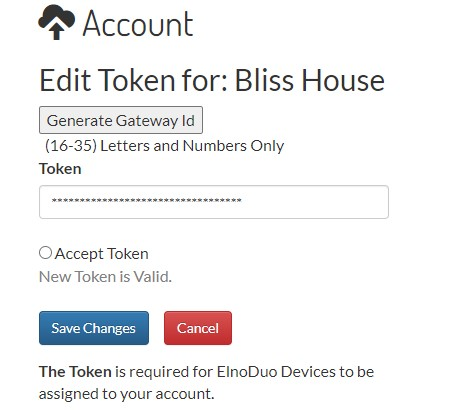
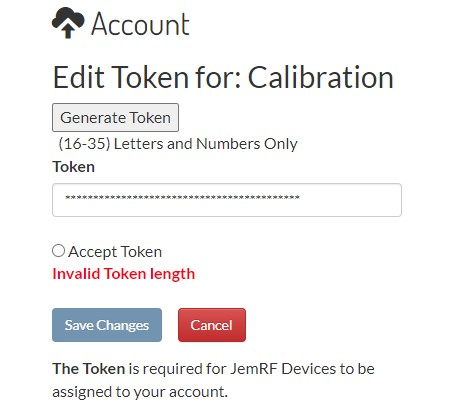
Add jemrf login and token creat procedure, update gateway docs and menus

diff --git a/pages/wifidocs/wifi-rf-gw-setup.md b/pages/wifidocs/wifi-rf-gw-setup.md
@@ -1,0 +1,79 @@
+---
+title: WiFi Wireless Gateway
+keywords: communication, communications, relay, basic, radio, spec, wifi, sensor
+last_updated: Jan 11, 2024
+tags:
+summary: "This Document describes the basics of the WiFi Wireless Gateway"
+sidebar: wifi_sidebar
+permalink: wifirfgwsetup.html
+folder: mydoc
+---
+## Introduction
+The WiFi Wireless Gateway (WiFi Gateway) receives messages from the Wireless sensors and sends them to the JemRF Monitoring service. This eliminates the need for a Raspberry PI computer and all that extra overhead. You can also connect to the our legacy service PrivateEyePi. The Gateway provides an easy to use tool to get your wireless sensors online free of configuring and programming a computer first.<br />
+
+## Setup Details
+The configuration page for the WiFi Gateway is very similar to the WiFi IoT Sensor.
+You can configure the Wireless Gateway using any device that supports WiFi and an internet browser. In this example we will use a desktop computer.
+
+{% include image.html file="Slide1da59.jpg" alt="WiFi GW Start"%}
+
+
+***To make setup easy, the WiFi Gateway has its own Access Point.***
+
+### Step 1 Connect to WiFi
+
+The first step is to connect your smart device to the WiFi Gateway. Power up the WiFi Gateway and using your computer (or smart device) look for a WiFi Name that starts with **JRF** followed by some numbers. These numbers are the unique ID of your device. Connect to the device using the default password:
+
+Password: WiFirelay
+{% include image.html file="gwsetup-ssid.jpg" alt="WiFi GW Connect"%}
+
+
+
+### Step 2 : Configure SSID and Password
+Now open up a browser  and navigate to [http://192.168.4.1/](http://192.168.4.1).
+{% include image.html file="wifigwsetup.jpg" alt="WiFi GW Setup Page"%}
+From here you configure your WiFi Settings.
+
+{% include image.html file="wifigwsetup-ssid.jpg" alt="WiFi GW SSID Select Page"%}
+Next enter the Network Name/SSID and Password of your WiFi router and click on save.
+
+Wait a few moments for the WiFi Gateway to connect to the WiFi router. Click on the "Setup Details" menu option to refresh the screen. Once connected you will see the **WLAN:** IP address has given to the Wireless Gateway, as shown in the next image. In the example below it shows 192.168.254.46, yours will be different. What's important is your gateway is now connected to the Internet.
+{% include image.html file="wifigwsetuponline.png" alt="WiFi Gateway Online"%}
+
+### Step 3 : Connect to Monitoring Server
+If you want to use our monitoring services,[**"monitor.jemrf.com"**](https://monitor.jemrf.com) is our newer service, focused on monitoring with custom tolerance settings to trigger notifications to help alert when there is a problem. The next step is to connect your gateway our services so you can monitor the devices and get alerts.  Both of our online services have a free tier. You are welcome to visit each to see which meets your needs and can sign up for both (only one will work at a time). Both use a token to link your device to your account.
+
+#### <span style="color:blue">Monitor.JemRF.com</span>
+If you want to use our monitoring services and you do not have a JemRF Monitoring Service account, the sign-up instruction to create an account on JemRF Monitoring are at: [Create account and create a Token](jemrfregister.html).
+
+* For the legacy service, the sign-up instruction  on PrivateEyePi are at: [Create account and get Token](pepregister.html). If you already have a PEP Token, you can use it on the newer JemRF Monitor service.
+
+### Step 4 : Final Gateway Settings
+#### Server
+On the WiFi Gateway Setup Details page, the **Server** setting is  **pep.jemrf.com**.
+
+#### Token
+Using your account on monitor.jemrf.com, after you login, click on your name in the upper right hand corner a drop down menu will appear. Select Account and then click on the Edit Token button.
+ * If you have a PrivateEyePi token already you can paste it in the token field and click the Accept Token to validate it is unique and Save. Now the same token works for both servers.
+ * If you do not have a PrivateEyePi Token, click Generate Gateway Id and it will create a token for you.
+
+ Click the Accept Token to validate it is unique and Save.
+{% include image.html file="JemRf-account-token.jpg" alt="WiFi GW Get token"%}
+
+Return to the Gateway WiFi and go back to [192.168.4.1](http://192.168.4.1) and copy and paste the **Token** into the **Token**  field as shown in the below diagram:
+
+{% include image.html file="wifigw_pep.jemrf.png" alt="WiFi GW JemRF Server"%}
+Clicking "Save" will connect the WiFi Gateway to the server.  After a few moments, click on the "Setup Details" tab to refresh the screen, you will see **"PEP: Connected"** as shown in the image above.
+
+Once Connected, the Wireless Gateway will start forwarding Wireless Sensor data to the monitoring server.
+
+## Sensors List
+The Sensor List page shows the sensors that are connected to the gateway.
+You sensor will appear in the list once it is powered on and in range of the gateway. Range is 1m to 300m depending on walls and objects between the sensor and the gateway.
+The sensors in the list are the sensors the gateway is forwarding to your monitoring service dashboard. The list shows the last message from each sensor received by the gateway with how many messages have been forwarded for that sensor and a grand total of all the messages forwarded to the server.
+
+The WiFi Gateway tracks messages for up to 64 Sensors.
+
+{% include image.html file="ActiveDevices.jpg" alt="WiFi GW Sensor List"%}
+
+

diff --git a/pages/mydoc/jemrfregister.md b/pages/mydoc/jemrfregister.md
@@ -1,0 +1,56 @@
+---
+title: JemRF Monitor Registration
+keywords: communication, communications, relay, basic, radio, spec, wifi, sensor
+last_updated: Jan 12, 2024
+tags:
+summary: "This Document describes how to create a Monitoring JemRF Account"
+sidebar: mydoc_sidebar
+permalink: jemrfregister.html
+folder: mydoc
+---
+
+## How to Create a Monitoring Account at Monitor.JemRF.com
+Monitor.JemRf.com is an interactive monitoring service provided by JemRF. It has a free tier level support for monitoring. This procedure shows how to become a monitoring user and get you Token. The token is used to link data from your sensors to your account.
+
+ You can also use [monitor.jemrf.com](https://monitor.jemrf.com) to create and account and token.
+ To create an account you select the Register option on top right. Once registered you will receive a validation email with a link (usually within 2 minutes). Click on the link and your account will be activated and ready for you to login.
+
+ After you login, click on your name in the upper right hand corner a drop down menu will appear. Select Account and then click on the Edit Token button.
+ * If you have a PrivateEyePi token already you can paste it in the token field and click the Accept Token to validate it is unique and Save. Now the same token works for both servers.
+ * If you do not have a PrivateEyePi Token, click Generate Gateway Id and it will create a token for you.
+
+ Click the Accept Token to validate it is unique and Save.
+{% include image.html file="JemRf-account-token.jpg" alt="WiFi GW Get token"%}
+
+## Initial Login Page
+When you go to [https://monitor.jemrf.com](https://monitor.jemrf.com/) the start page is the sign-in screen.
+{% include image.html file="jemrf login1.jpg" alt="JemRF Welcome Page"%}
+
+## Create a new Account
+If you do not have an account click on the "Register" button and that will bring up the create new account page show here:
+{% include image.html file="jemrf-register.jpg" alt="JemRF Register Page"%}
+
+After you click on Register, you will get a message that a validation link has been sent to your email. May take one or two minutes to get the email. Click on then valdidate link and your account will be created and ready to login.
+
+## Login to JemRF
+After you click on the validation link, your account will be ready for you to login. Go back to the [Welcome Page](https://monitor.jemrf.com/) and click on Login.
+{% include image.html file="jemrf-login.jpg" alt="JemRF Login Page"%}
+
+## Getting your Token
+Once your account is ready and you have logged in, follow these steps to get you **Token**.
+
+### Step 1
+Once logged in, next to your name is a drop down arrow, click on the arrow and a menu will appear:
+{% include image.html file="jemrf-account-select" alt="Select Account Page"%}
+At top select Edit Profile
+
+### Step 2
+Select the Edit Account(s) option and the edit account page will appear.
+{% include image.html file="jemrf-edit-account.jpg" alt="Edit Account Page"%}
+
+### Step 3
+Click on the edit icon to the right of the Token Field to get the Create Token form.
+{% include image.html file="jemrf-account-token.jpg" alt="Get Token Page"%}
+If you have an old PEP token you want to use, you can past it in the Token Field, if not click on **Generate Token** and a token will be filled in. Click on Accept Token, that validates it is unique, then click on Save to save the token to your account. The Account page will reappear, (page shown in Step 2).
+Your token will now be shown where the blue line is.  You can now copy the token to use on your device setup page.
+

diff --git a/pages/wifidocs/wifi_intro.md b/pages/wifidocs/wifi_intro.md
@@ -1,7 +1,7 @@
 ---
 title: "WiFi Sensor Introduction"
 keywords: getting started introduction
-sidebar: mydoc_sidebar
+sidebar: wifi_sidebar
 permalink: wifi_intro.html
 summary: JemRF radio modules are easy to use wireless data transmission modules where all the error checking, encoding, packetization and CRC done for you. Build prototypes in minutes. Requires no programming and no drivers. Long range communication up to 1 KM within line of sight. Supports point-to-multi-point, multi-point-to-point, multi-point-to-multi-point or point-to-point network topologies. All devices have built-in 128-bit AES encryption for secure over the air transmissions.The devices are configurable through the serial interface or over the air.
 ---

diff --git a/pages/projects/projects_intro.md b/pages/projects/projects_intro.md
@@ -8,7 +8,7 @@ summary: JemRF radio modules are easy to use wireless data transmission modules 
 
 # Introduction to JemRF Projects
 ## Using JemRF WiFi Sensor
-### Light Relay
+### Remote Control Switch (IOT Relay)
 ### MQTT
 ## Using JemRF RF Sensor line
 ### Home Alarm System

diff --git a/pages/mydoc/mqtt.md b/pages/mydoc/mqtt.md
@@ -1,7 +1,7 @@
 ---
 title: MQTT Integration
 keywords: interface, integrate, integration, mqtt
-last_updated: Sep 28, 2020
+last_updated: Jan 11, 2024
 tags:
 summary: "This page explains how to integrate our RF Modules with MQTT"
 sidebar: mydoc_sidebar
